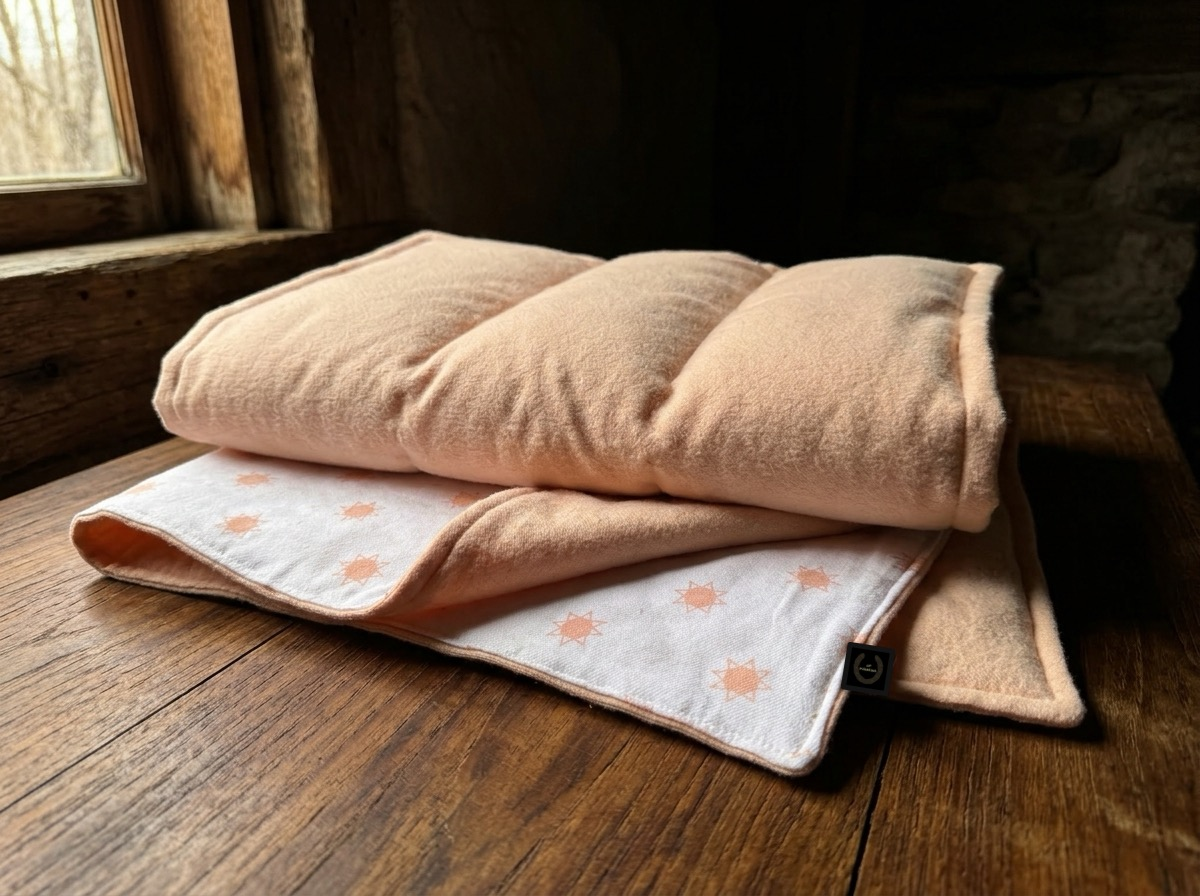
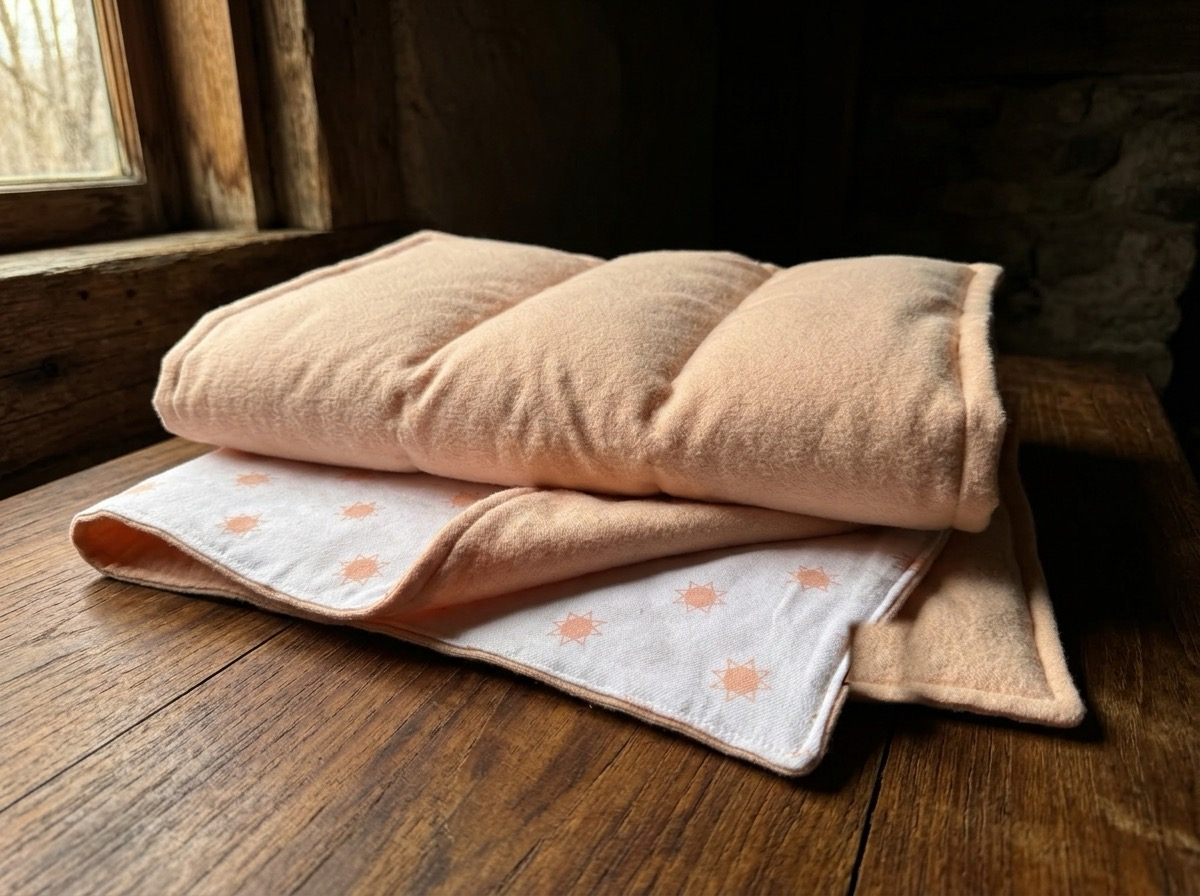
Completely remove all tag labels from lookbook quilts for a pure, clean aesthetic

Changed region(s): [[0.6783, 0.6875, 0.7708, 0.7812]]

diff --git a/shop.html b/shop.html
@@ -784,7 +784,7 @@
   </footer>
 
   <!-- Scripts -->
-  <script src="assets/js/data.js?v=20261022_v3_bubblecubes"></script>
+  <script src="assets/js/data.js?v=20261022_v4_clean"></script>
   <script src="assets/js/cart.js"></script>
   <script src="assets/js/main.js?v=20261022_v2"></script>
   <script>
@@ -809,7 +809,7 @@
         shortLabel: "Peach • Suns",
         motif: "Radiant Suns",
         swatchHex: "#F4C6A8",
-        image: "assets/images/lookbook-peach-suns.jpg?v=logo_tag_v2",
+        image: "assets/images/lookbook-peach-suns.jpg?v=clean_notag_v3",
         quiltSpec: "100% Solid Pastel Peach Apricot",
         throwSpec: "Peach Suns on White + Solid Reverse",
         pillText: "Solid Pastel Peach Quilt + Sun-Printed Reversible Throw",
@@ -822,7 +822,7 @@
         shortLabel: "Mint Green • Trees",
         motif: "Minimalist Trees",
         swatchHex: "#C5E0C2",
-        image: "assets/images/lookbook-mint-trees.jpg?v=logo_tag_v2",
+        image: "assets/images/lookbook-mint-trees.jpg?v=clean_notag_v3",
         quiltSpec: "100% Solid Pastel Mint Green",
         throwSpec: "Mint Trees on White + Solid Reverse",
         pillText: "Solid Pastel Mint Green Quilt + Tree-Printed Reversible Throw",

diff --git a/index.html b/index.html
@@ -978,7 +978,7 @@
   </footer>
 
   <!-- Scripts -->
-  <script src="assets/js/data.js?v=20261022_v3_bubblecubes"></script>
+  <script src="assets/js/data.js?v=20261022_v4_clean"></script>
   <script src="assets/js/cart.js"></script>
   <script src="assets/js/main.js?v=20261022_v2"></script>
   <script>
